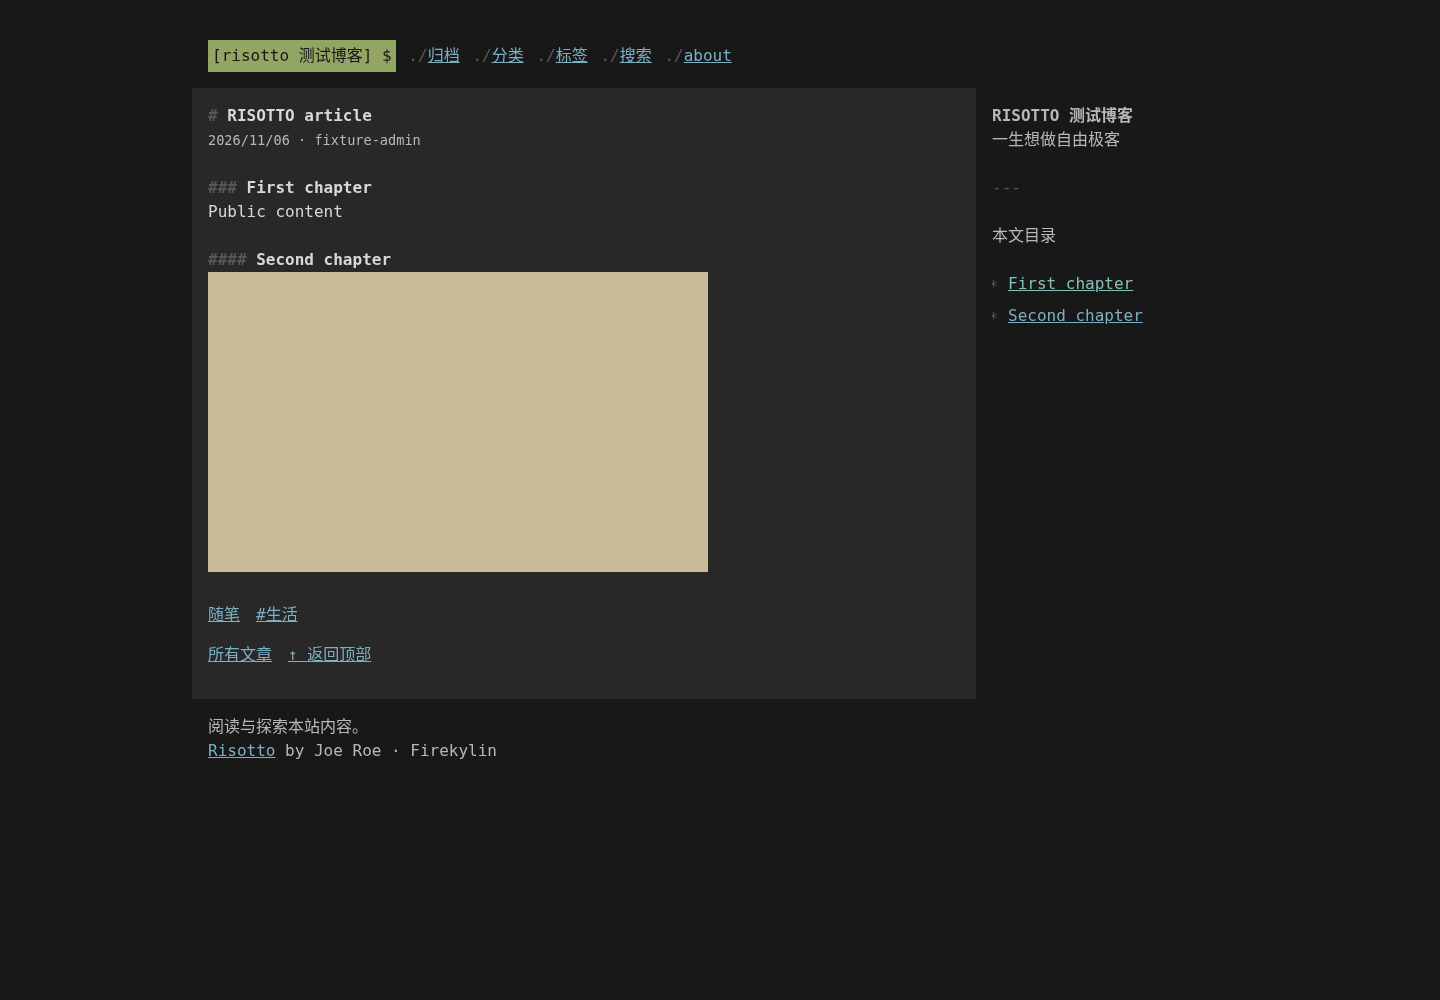
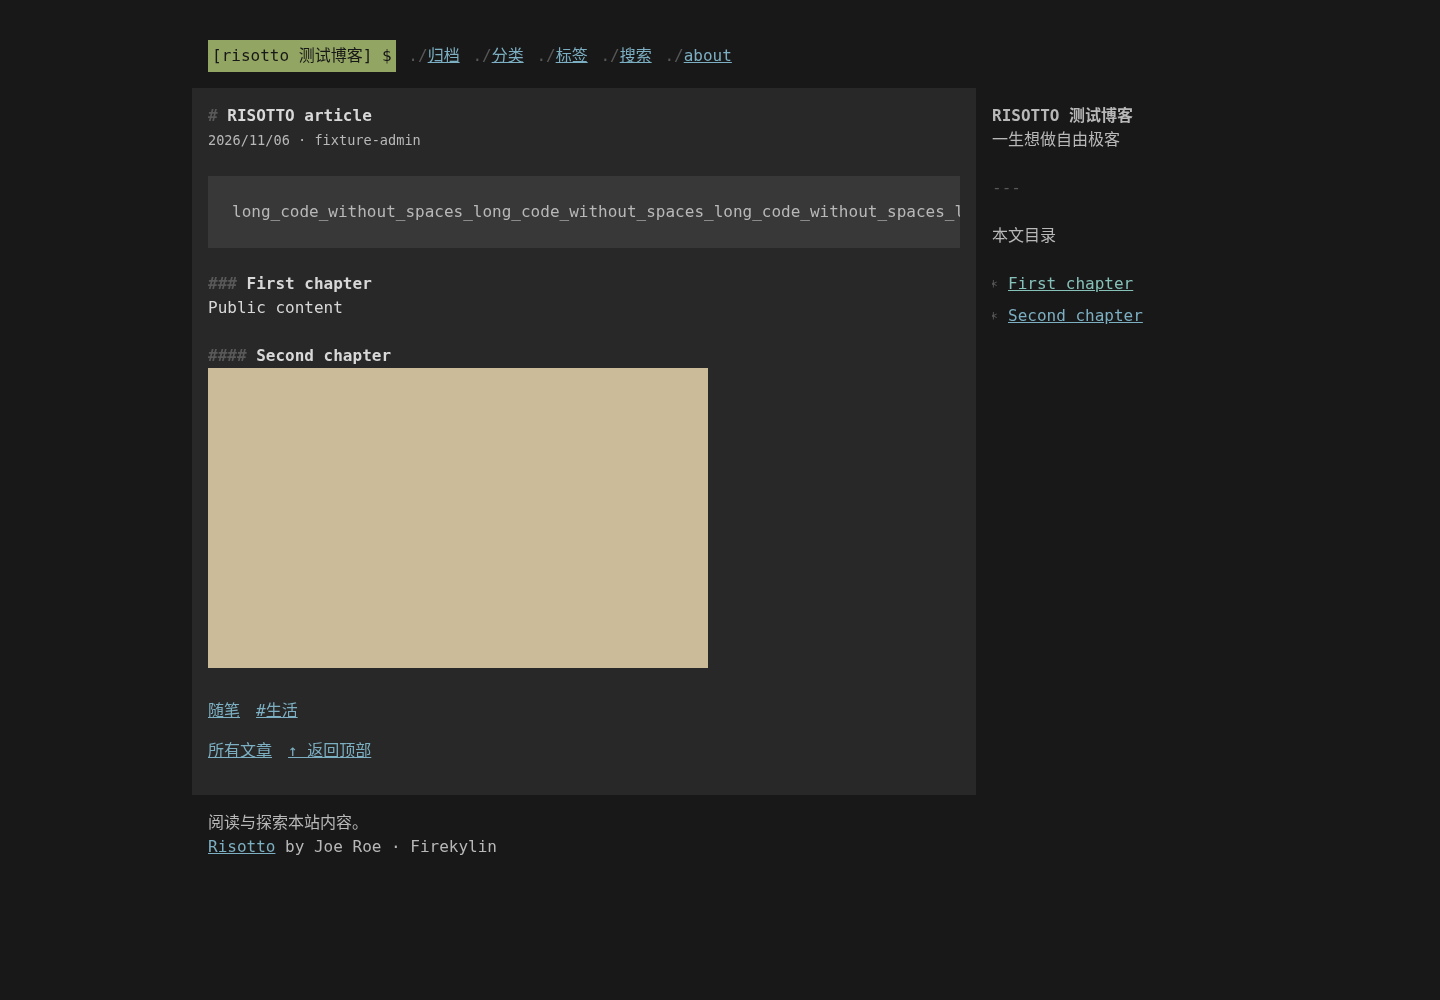
fix: render native attachment media and contain long code

diff --git a/test/risotto.test.js b/test/risotto.test.js
@@ -4,3 +4,5 @@ const {render,pages}=require('./port-fixture');
 for(const page of pages)test('Risotto '+page+' renders populated and empty Widgets',async()=>{for(const empty of [false,true]){const html=await render('risotto',page,{empty});assert.match(html,/Risotto/);assert(!html.includes('undefined'));}});
 test('Risotto escapes titles, rejects active cover URLs, preserves protected body',async()=>{const html=await render('risotto','index',{hostile:true,config:{profileName:'<script>alert(1)</script>',backgroundImage:'javascript:alert(1)'}});assert(!html.includes('<img src=x onerror'));assert.match(html,/&lt;img/);assert(!html.includes('src="javascript:'));assert.match(await render('risotto','post',{protected:true}),/protectPassword/);});
 test('Risotto delegates comments and keeps search filters in pagination',async()=>{assert(!(await render('risotto','post',{comments:false})).includes('id="comments"'));const html=await render('risotto','search',{request:'/search.html?keyword=a%26b'});assert.match(html,/keyword=a%26b&amp;page=2/);});
+
+test('risotto renders attachment media and rejects active file URLs',async()=>{const {context}=require('./port-fixture');const {Eta}=require('eta');const path=require('node:path');for(const [mime,element] of [['image/png','img'],['audio/mpeg','audio'],['video/mp4','video'],['application/pdf',null]]){const ctx=context('risotto','attachment');const archive=await ctx.widget('Widget_Archive');archive.stack[0].options={attachment:{mime,url:'/uploads/file',name:'Download file'}};const html=await new Eta({views:path.join(__dirname,'../packages/risotto'),varName:'firekylin'}).renderAsync('attachment',ctx);assert.match(html,/href="\/uploads\/file" download/);if(element)assert(html.includes('<'+element+' '));}const ctx=context('risotto','attachment');(await ctx.widget('Widget_Archive')).stack[0].options={attachment:{mime:'image/png',url:'javascript:alert(1)'}};const html=await new Eta({views:path.join(__dirname,'../packages/risotto'),varName:'firekylin'}).renderAsync('attachment',ctx);assert(!html.includes('javascript:'));});

diff --git a/packages/risotto/res/css/theme.css b/packages/risotto/res/css/theme.css
@@ -462,3 +462,6 @@ body {
 
 /* Native integration */
 body{margin:0;padding:1.5rem;overflow-wrap:anywhere}iframe,video{max-width:100%}.prose table{display:block;overflow:auto}.post-actions,.tags{display:flex;gap:1rem;flex-wrap:wrap;margin:1rem 0}.pagination{display:flex;justify-content:space-between;gap:1rem;margin:2rem 0}.skip{position:absolute;top:-100px}.skip:focus{top:0}input,button{font:inherit;max-width:100%;box-sizing:border-box}.page__aside{align-self:start}.page__body{min-width:0}.toc-list{padding-left:1rem}.toc-list li{margin-bottom:.5rem}.post-date{font-size:.85rem;color:var(--off-fg)}:focus-visible{outline:2px solid var(--link);outline-offset:3px}@media(max-width:44.99rem){.page__aside{position:static;max-height:none}}
+
+/* Native code and attachment containment. */
+.prose pre{max-width:100%;overflow-x:auto}.attachment-media img,.attachment-media audio,.attachment-media video{max-width:100%}
